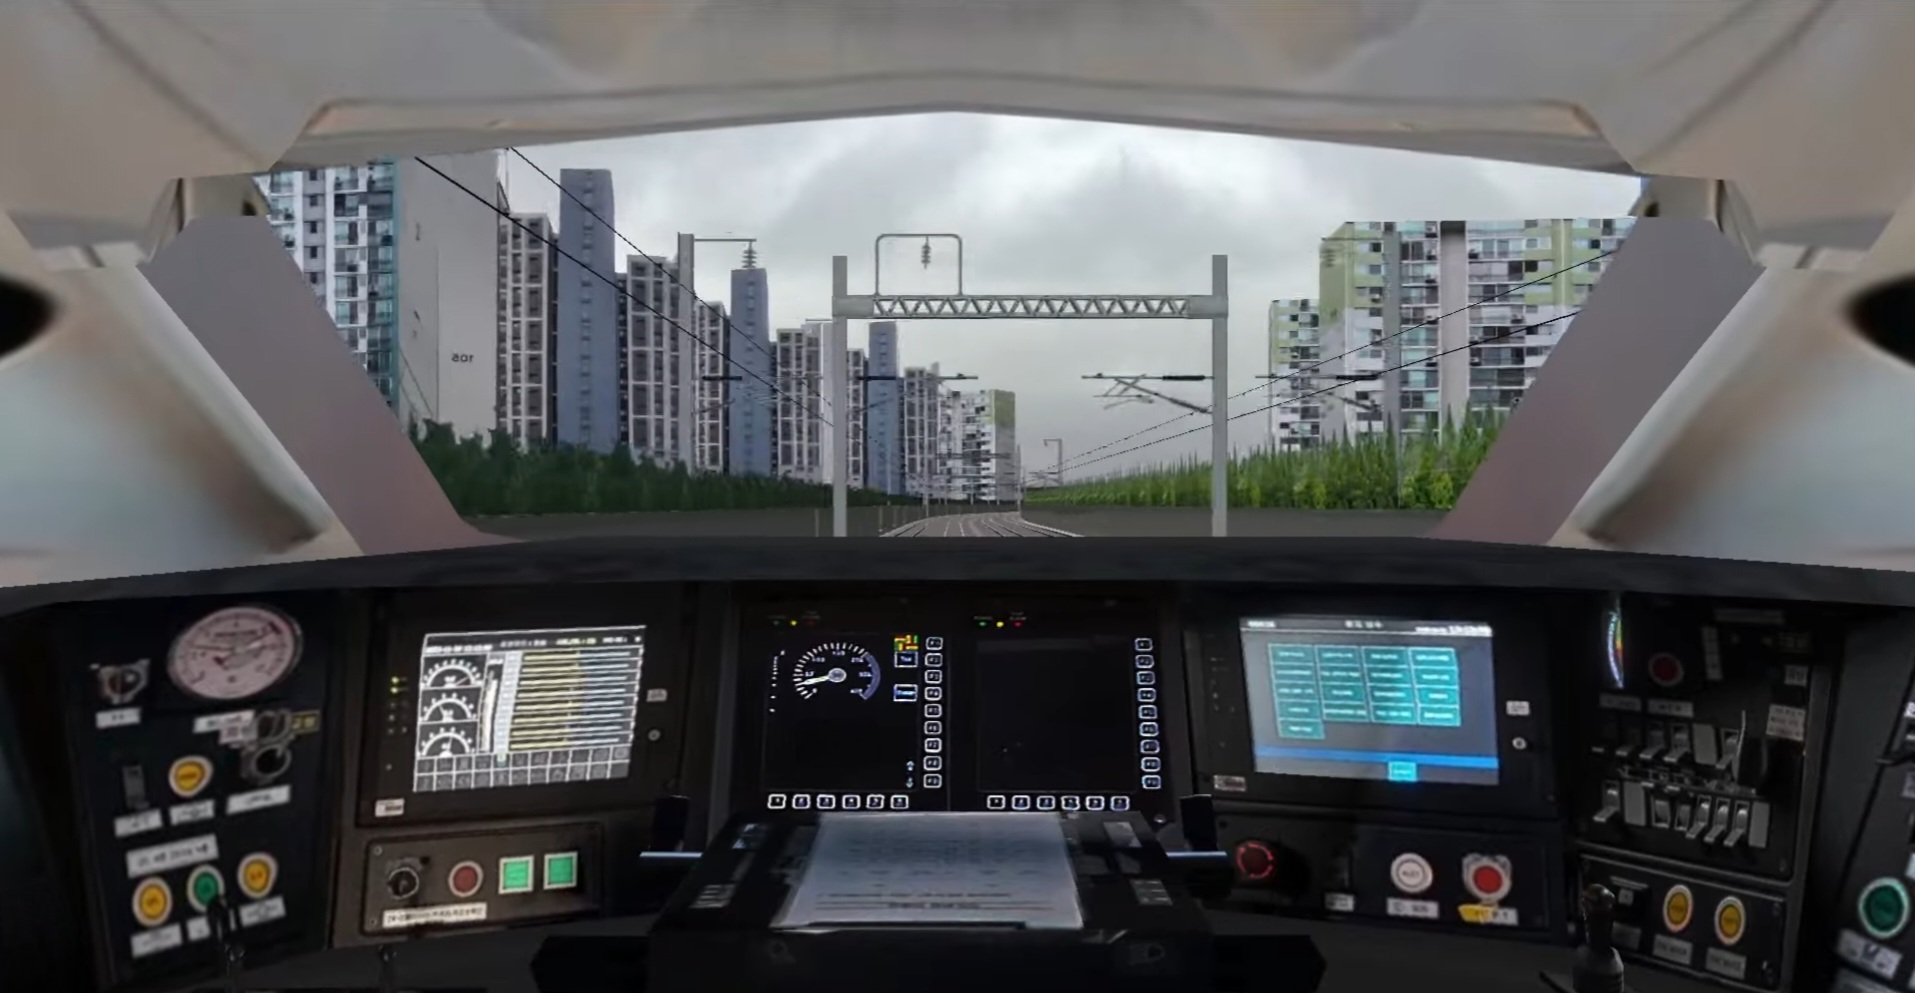
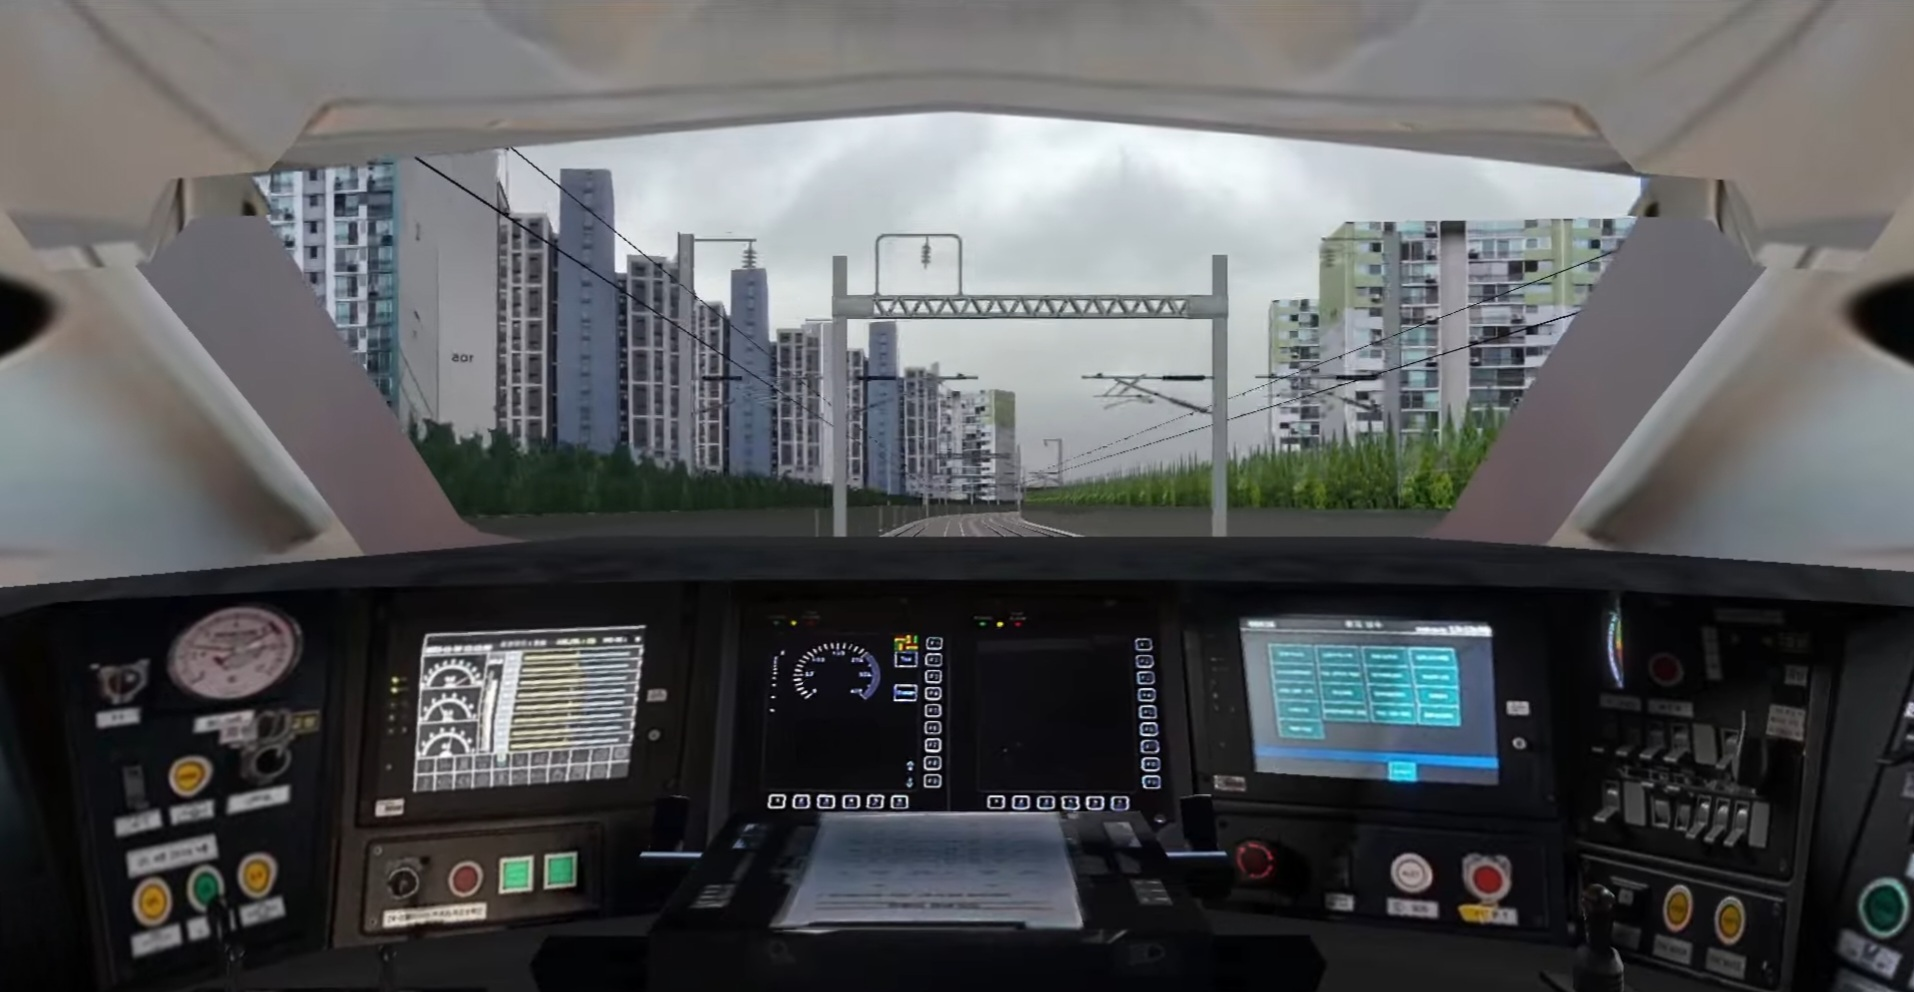
add analog needle

diff --git a/tasc/static/index.html b/tasc/static/index.html
@@ -1534,6 +1534,24 @@ const CAB_LAYOUTS = {
 [266, 210],
     ],
     speedText: { x: 865, y: 745, fontSize: 36, letterSpacing: 4 },
+        needle: {
+      img: "/static/photos/ktx_needle.png", // 바늘 PNG 경로
+      width: 45, // SVG 안에서 바늘 크기
+      height: 22,
+
+      // cab.png 기준 계기판 중심 (임시 값)
+      cx: 836,
+      cy: 675,
+
+      // needle.png 안에서 바늘 축 위치 (임시 값: 이미지 중앙)
+      px: 35.29,
+      py: 9.56,
+
+      // 회전 범위 + 풀스케일 속도
+      minAngle: -25, // 0 km/h일 때 각도
+      maxAngle: 235, // maxSpeed일 때 각도
+      maxSpeed: 300 // 계기판 끝속도
+    },
   },
 };
 
@@ -2196,30 +2214,6 @@ function getCabLayoutKeyFromVehicle(filePath) {
 // 간단한 동적 스케일러
 let lastFpsCheck = performance.now();
 let frames = 0;
-
-  // Conservative DPR autoscaler: check less frequently and change in larger steps to avoid
-  // frequent renderer reconfiguration which can cause frame hitches.
-  // function autoScaleDPR() {
-  //   frames++;
-  //   const now = performance.now();
-  //   // check every 1500ms
-  //   if (now - lastFpsCheck < 1500) return;
-  //   const fps = frames * 1000 / (now - lastFpsCheck || 1);
-  //   // compute desired DPR: be conservative to avoid rapid toggles
-  //   let desired = targetDPR;
-  //   if (fps < 45) desired = 1;        // degrade to low DPR on sustained low FPS
-  //   else if (fps > 65) desired = 1;    // upgrade to full DPR when comfortably above target
-
-  //   // only apply when change is meaningful to avoid repeated reflows
-  //   if (Math.abs(desired - targetDPR) >= 0.1) {
-  //     targetDPR = desired;
-  //     try { renderer.setPixelRatio(targetDPR); } catch(e) {}
-  //     try { resize(); } catch(e) {}
-  //   }
-
-  //   frames = 0;
-  //   lastFpsCheck = now;
-  // }
 
   // --- 텍스처 로더 ---
   const texLoader = new THREE.TextureLoader();
@@ -3256,12 +3250,14 @@ enforceFloat(inputGrade,-10,10,1);
 /* ✅ 속도별 최소 거리 규칙 */
 function minDistForSpeed(v) {
   if (v >= 240) return 6000;
-  if (v >= 200) return 4000;
-  if (v >= 180) return 2500;
-  if (v >= 130) return 1000;
-  if (v >= 120) return 900;
-  if (v >= 110) return 800;
-  if (v >= 100) return 600;
+  if (v >= 200) return 5000;
+  if (v >= 180) return 3000;
+  if (v >= 160) return 2500;
+  if (v >= 140) return 2000;
+  if (v >= 130) return 1500;
+  if (v >= 120) return 1200;
+  if (v >= 110) return 1000;
+  if (v >= 100) return 800;
   if (v >= 90)  return 500;
   if (v >= 80)  return 400;
   if (v >= 70)  return 300;
@@ -3277,7 +3273,7 @@ function showHint(msg) {
 }
 function applySpeedDistanceRule() {
   let v = Number(inputSpeed.value || 0);
-  v = Math.min(130, Math.max(40, v));
+  v = Math.max(40, v);
   const requiredMin = minDistForSpeed(v);
   let d = Number(inputDist.value || 0);
   const absoluteMin = 150, absoluteMax = 6000;

diff --git a/tasc/server.py b/tasc/server.py
@@ -732,7 +732,7 @@ class StoppingSim:
             idx = max(0, min(idx, n_forward - 1))
 
             x = (idx + 1) / n_forward # 0~1 사이
-            gamma = 0.2 # 1보다 작으면 저단을 더 강하게 
+            gamma = 0.8 # 1보다 작으면 저단을 더 강하게 
 
             # 고속열차(KTX/신칸센 등)에서만 적용하고 싶으면 조건 추가
             if self.veh.maxSpeed_kmh >= 200: # 예: 200km/h 이상이면 고속열차 취급
